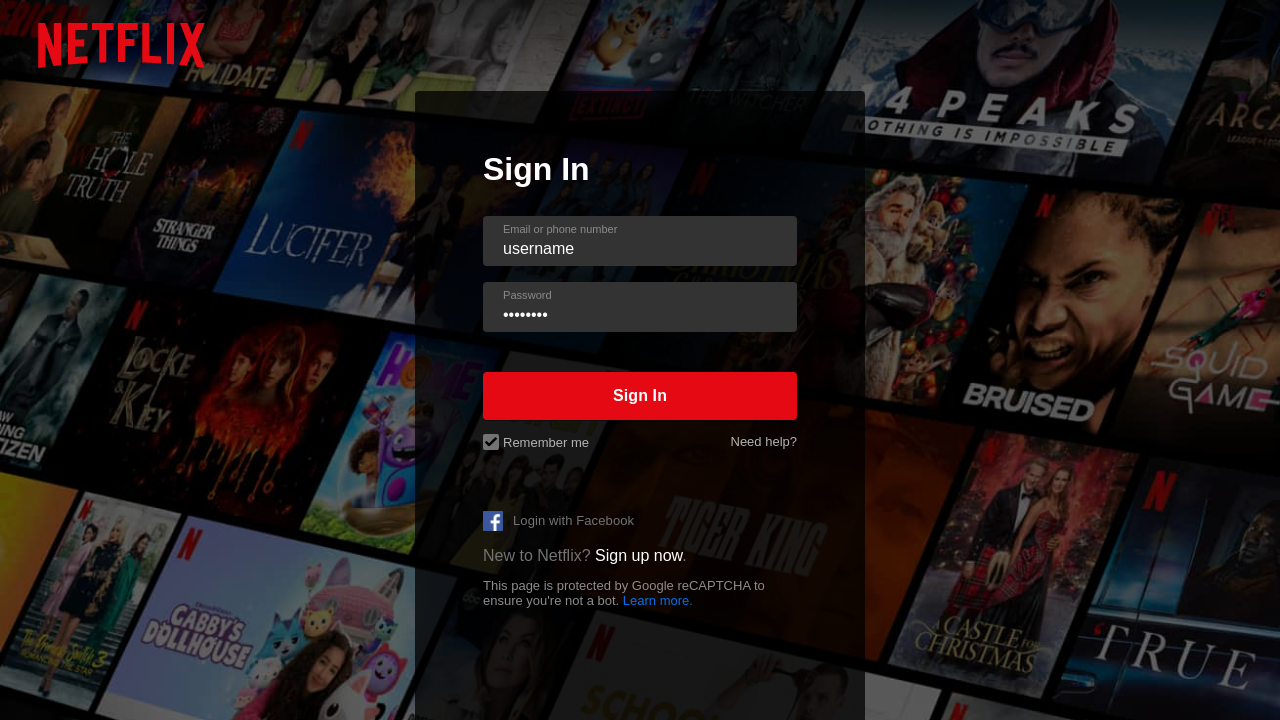
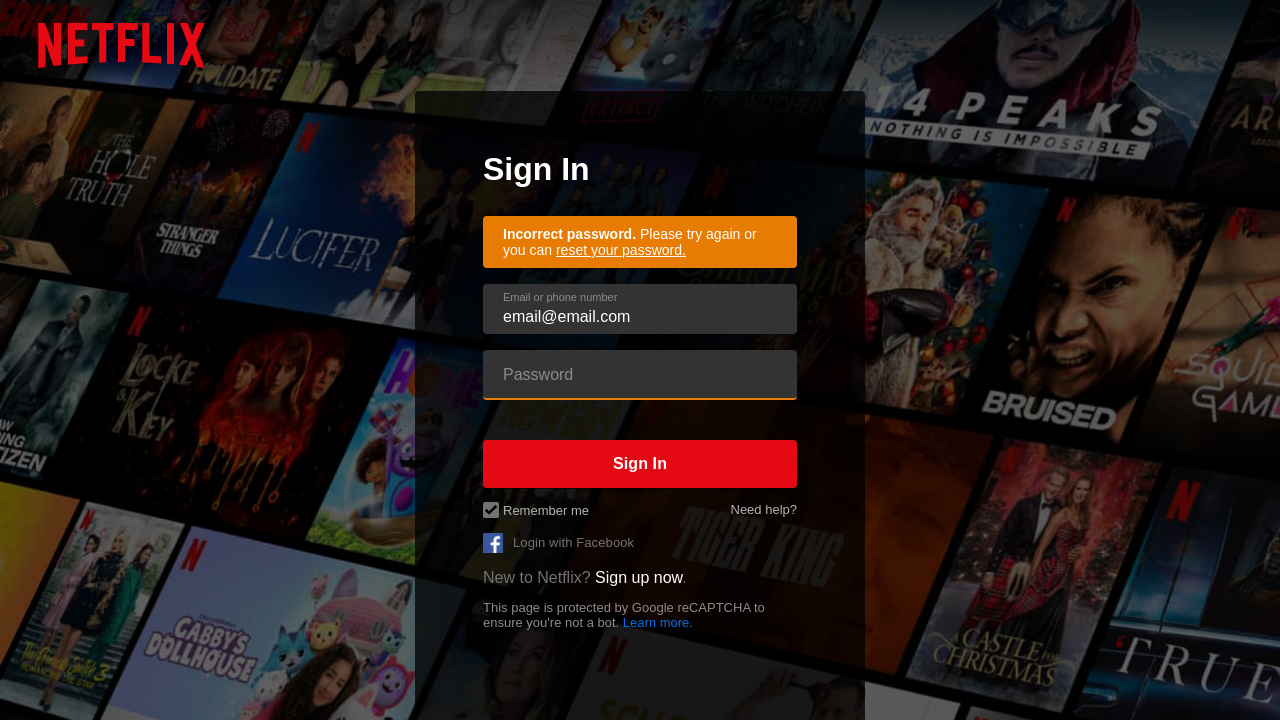
change timeout on waiting for selector

diff --git a/index.js b/index.js
@@ -11,9 +11,11 @@ const { chromium } = require("playwright");
   page.once('load', () => console.log('Page loaded!'))
   await page.goto('https://netflix.com').catch(err => console.log(err));
   await page.click('text=Sign In');
-  await page.fill('input[name="userLoginId"]', 'username');
+  await page.fill('input[name="userLoginId"]', 'email@email.com');
   await page.fill('input[name="password"]', 'password');
-  await page.click('text=Sign In');
+  await page.click('button[type="submit"]');
+  const ele = await page.waitForSelector('b', {visible: true, timeout: 2000}).catch(err => console.log('Valid credentials'));
+  if (ele) console.log('Error, invalid credential!');
   await page.screenshot({path: 'screenshot.png'});
   await browser.close();
   // YOUR CODE ENDS
